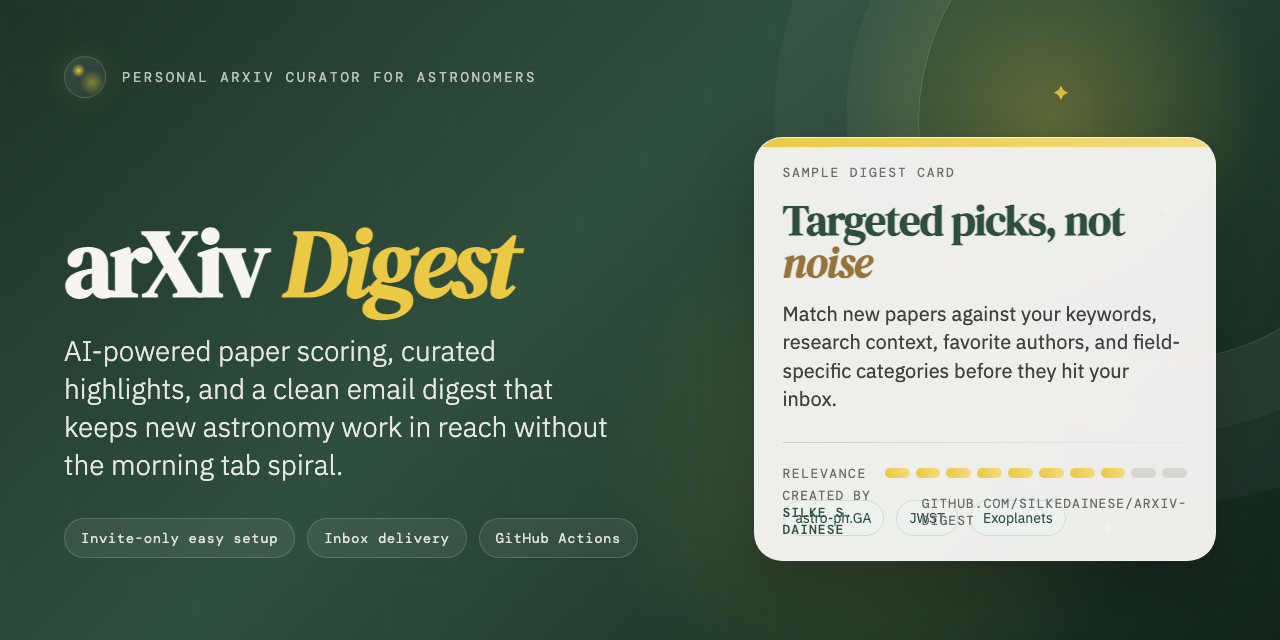
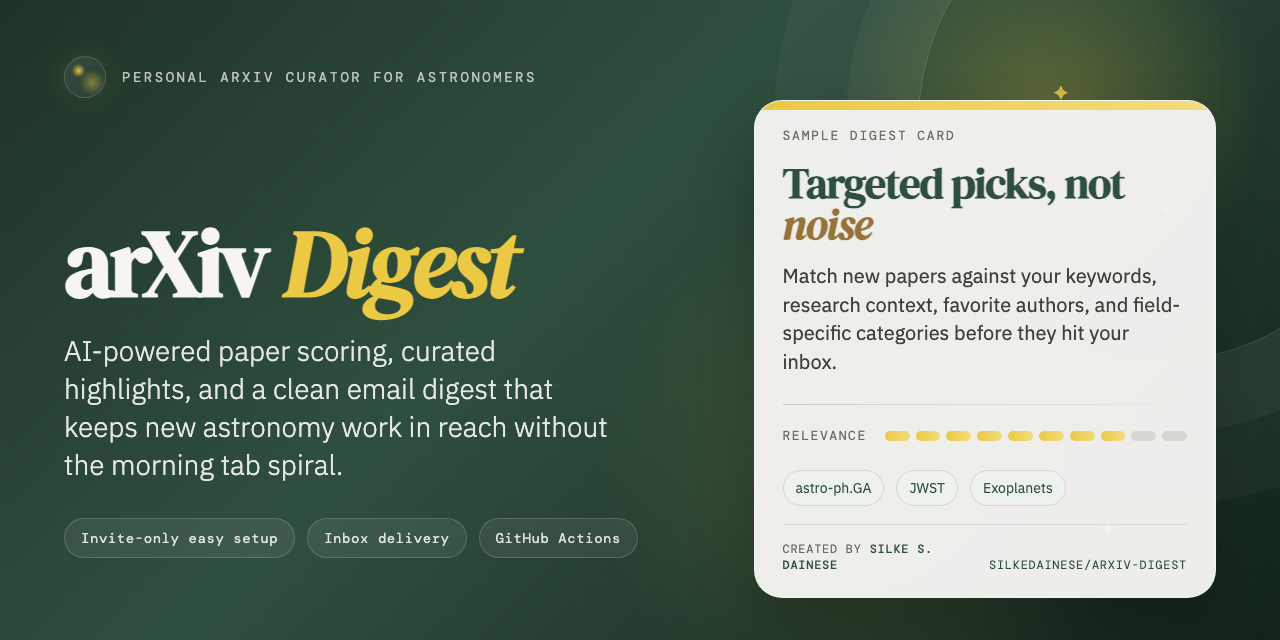
Fix social preview card footer layout

Changed region(s): [[0.5625, 0.1562, 0.9688, 0.6875], [0.5625, 0.7188, 0.9688, 0.9375]]

diff --git a/scripts/generate_social_preview.py b/scripts/generate_social_preview.py
@@ -189,6 +189,8 @@ HTML = f"""<!DOCTYPE html>
     .card {{
       align-self: center;
       justify-self: stretch;
+      display: flex;
+      flex-direction: column;
       background: rgba(246, 245, 242, 0.96);
       color: var(--ash-black);
       border: 1px solid rgba(246, 245, 242, 0.6);
@@ -286,6 +288,7 @@ HTML = f"""<!DOCTYPE html>
       gap: 12px;
       flex-wrap: wrap;
       margin-top: 8px;
+      margin-bottom: 18px;
     }}
 
     .meta-chip {{
@@ -298,16 +301,16 @@ HTML = f"""<!DOCTYPE html>
     }}
 
     .footer {{
-      position: absolute;
-      left: 28px;
-      right: 28px;
-      bottom: 22px;
-      display: flex;
-      justify-content: space-between;
-      align-items: center;
+      margin-top: auto;
+      padding-top: 16px;
+      border-top: 1px solid rgba(47, 79, 62, 0.14);
+      display: grid;
+      grid-template-columns: 1fr auto;
+      gap: 10px 16px;
+      align-items: end;
       font-family: var(--font-mono);
-      font-size: 13px;
-      letter-spacing: 0.08em;
+      font-size: 12px;
+      letter-spacing: 0.06em;
       text-transform: uppercase;
       color: var(--warm-grey);
     }}
@@ -315,6 +318,11 @@ HTML = f"""<!DOCTYPE html>
     .footer strong {{
       color: var(--pine);
       font-weight: 500;
+    }}
+
+    .footer-right {{
+      text-align: right;
+      color: var(--pine);
     }}
   </style>
 </head>
@@ -373,7 +381,7 @@ HTML = f"""<!DOCTYPE html>
         </div>
         <div class="footer">
           <div>Created by <strong>Silke S. Dainese</strong></div>
-          <div>github.com/SilkeDainese/arxiv-digest</div>
+          <div class="footer-right">SilkeDainese/arxiv-digest</div>
         </div>
       </aside>
     </section>
